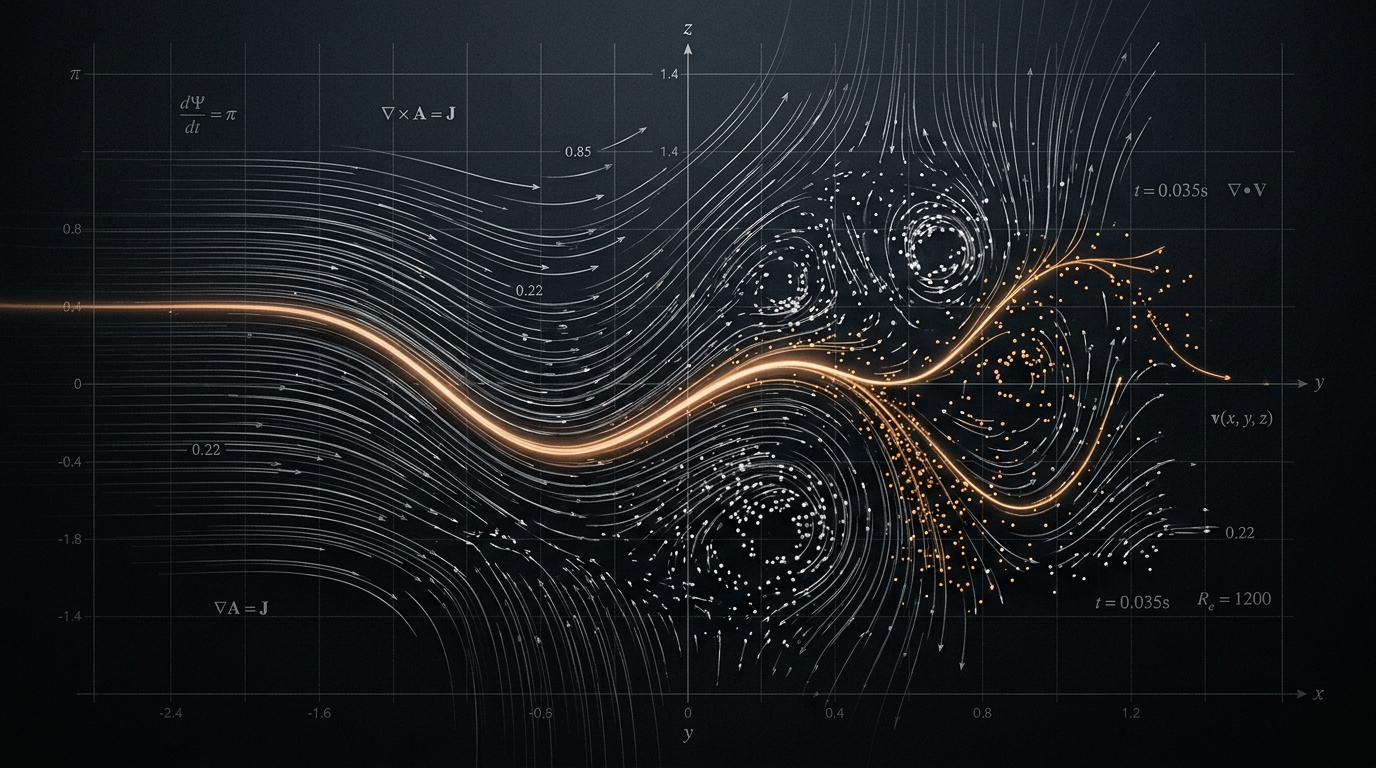
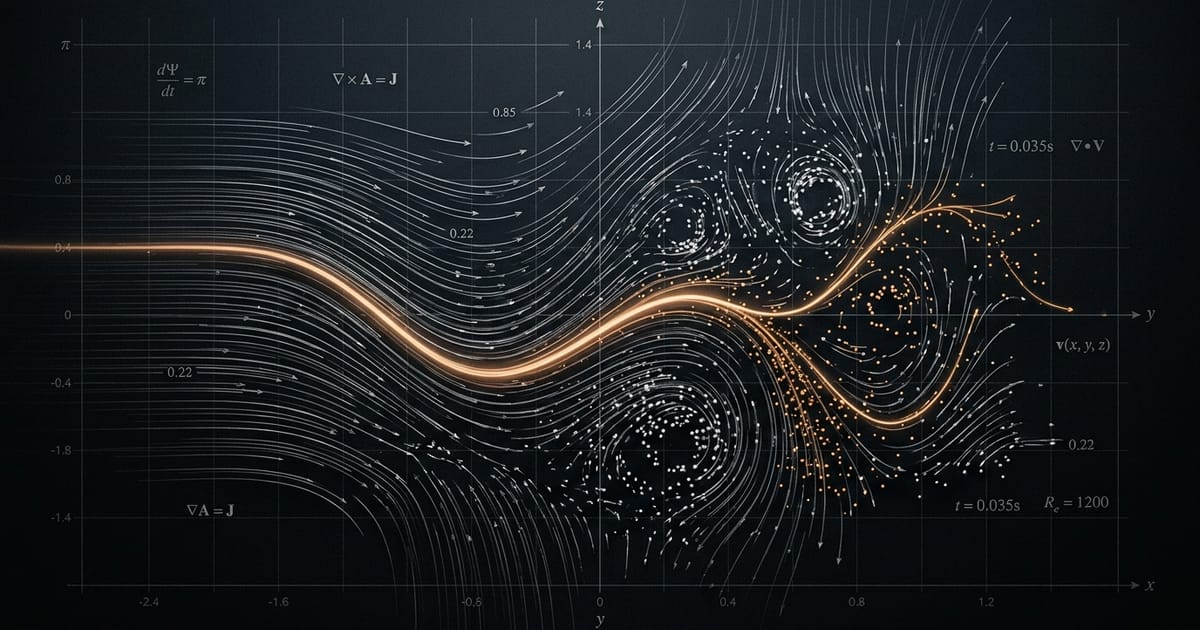
性能与UX优化：Hero图AVIF/WebP压缩、动画降级、SideRays配色统一、主题持久化

diff --git a/src/lib/useAnimationOptOut.ts b/src/lib/useAnimationOptOut.ts
@@ -1,0 +1,40 @@
+import { useEffect, useState } from "react";
+
+/**
+ * Centralized opt-out flags for heavy background animations.
+ *
+ * Two independent signals pause the render loop:
+ *  1. `prefers-reduced-motion` — the user explicitly asked the OS / browser
+ *     to minimize motion (vestibular sensitivity, accessibility). Honored at
+ *     both mount and when the media query changes at runtime.
+ *  2. Page visibility — when the tab is hidden, an rAF loop is pure waste
+ *     (CPU/GPU/battery). `document.visibilityState` flips on tab switch,
+ *     minimization, and screen-sleep on some platforms.
+ *
+ * Components should STOP (not just slow down) their `requestAnimationFrame`
+ * loop while `paused === true`, and ideally render nothing visible either,
+ * since a frozen WebGL frame wastes a texture slot.
+ */
+export function useAnimationOptOut(): { paused: boolean; reducedMotion: boolean } {
+  const [reducedMotion, setReducedMotion] = useState(false);
+  const [hidden, setHidden] = useState(false);
+
+  useEffect(() => {
+    // prefers-reduced-motion: query the live media query so we react to the
+    // user toggling the OS setting without reloading the page.
+    const mql = window.matchMedia("(prefers-reduced-motion: reduce)");
+    const sync = () => setReducedMotion(mql.matches);
+    sync();
+    mql.addEventListener("change", sync);
+
+    // Visibility: pause rAF while the tab is in the background.
+    const onVis = () => setHidden(document.visibilityState === "hidden");
+
+    return () => {
+      mql.removeEventListener("change", sync);
+      document.removeEventListener("visibilitychange", onVis);
+    };
+  }, []);
+
+  return { paused: reducedMotion || hidden, reducedMotion };
+}

diff --git a/src/App.tsx b/src/App.tsx
@@ -26,9 +26,13 @@ import {
 } from "./translations";
 import type { Project, ContentArticle } from "./types";
 
-// Asset references
-import heroImage from "./assets/images/hero_cinematic_rendering_1782300621428.jpg";
-const HERO_IMAGE_URL: string = heroImage.src;
+// Asset references — modern formats only. AVIF (56KB) is ~6% of the original
+// JPEG (875KB); WebP covers browsers without AVIF. Both formats are supported
+// by every browser released since 2020, so no JPEG fallback is shipped.
+import heroAvif from "./assets/images/hero.avif";
+import heroWebp from "./assets/images/hero.webp";
+const HERO_IMAGE_AVIF: string = heroAvif.src;
+const HERO_IMAGE_WEBP: string = heroWebp.src;
 
 interface AppProps {
   // Markdown-backed content (pre-rendered HTML + KaTeX at build time by Astro)
@@ -60,6 +64,19 @@ export default function App({ knowledgeArticles = [], labExperiments = [] }: App
 
   const selectedProject = selectedProjectId ? projects.find(p => p.id === selectedProjectId) || null : null;
 
+  // Persist + restore theme. SSR renders "dark" (no localStorage on server),
+  // then this effect reconciles to the stored value on mount and on every
+  // toggle. Toggling writes back so the choice survives reloads.
+  useEffect(() => {
+    const stored = localStorage.getItem("theme");
+    if (stored === "light" || stored === "dark") {
+      setTheme(stored);
+    }
+  }, []);
+  useEffect(() => {
+    localStorage.setItem("theme", theme);
+  }, [theme]);
+
   // Smooth scroll to top on page switches
   useEffect(() => {
     window.scrollTo({ top: 0, behavior: "smooth" });
@@ -76,7 +93,8 @@ export default function App({ knowledgeArticles = [], labExperiments = [] }: App
             labExperiments={experiments}
             onSelectProject={(proj) => setSelectedProjectId(proj.id)}
             setActiveTab={setActiveTab}
-            heroImageUrl={HERO_IMAGE_URL}
+            heroImageAvif={HERO_IMAGE_AVIF}
+            heroImageWebp={HERO_IMAGE_WEBP}
             lang={lang}
           />
         );
@@ -128,7 +146,7 @@ export default function App({ knowledgeArticles = [], labExperiments = [] }: App
       <div className="fixed inset-0 -z-15 pointer-events-none opacity-90">
         <SideRays
           speed={2.5}
-          rayColor1="#EAB308"
+          rayColor1="#bcfd49"
           rayColor2="#96c8ff"
           intensity={2.0}
           spread={2.0}

diff --git a/src/components/SideRays.tsx b/src/components/SideRays.tsx
@@ -1,5 +1,6 @@
 import React, { useRef, useEffect, useState } from 'react';
 import { Renderer, Program, Triangle, Mesh } from 'ogl';
+import { useAnimationOptOut } from '../lib/useAnimationOptOut';
 import './SideRays.css';
 
 interface SideRaysProps {
@@ -53,6 +54,11 @@ export const SideRays: React.FC<SideRaysProps> = ({
   const cleanupFunctionRef = useRef<(() => void) | null>(null);
   const [isVisible, setIsVisible] = useState(false);
   const observerRef = useRef<IntersectionObserver | null>(null);
+  const { paused } = useAnimationOptOut();
+  // Mirror into a ref so the rAF `loop` closure (captured once per
+  // initializeWebGL) reads the live value without re-initializing WebGL.
+  const pausedRef = useRef(paused);
+  pausedRef.current = paused;
 
   useEffect(() => {
     if (!containerRef.current) return;
@@ -210,13 +216,18 @@ void main() {
 
       const loop = (t: number) => {
         if (!rendererRef.current || !uniformsRef.current || !meshRef.current) return;
-        uniforms.iTime.value = t * 0.001;
-        try {
-          renderer.render({ scene: mesh });
-          animationIdRef.current = requestAnimationFrame(loop);
-        } catch (e) {
-          return;
+        // While paused (tab hidden / reduced-motion), keep the last rendered
+        // WebGL frame on screen and skip the render call — no flicker, no
+        // wasted GPU. The loop keeps scheduling so resume is automatic.
+        if (!pausedRef.current) {
+          uniforms.iTime.value = t * 0.001;
+          try {
+            renderer.render({ scene: mesh });
+          } catch (e) {
+            return;
+          }
         }
+        animationIdRef.current = requestAnimationFrame(loop);
       };
 
       window.addEventListener('resize', updateSize);

diff --git a/src/components/DynamicLinesBg.tsx b/src/components/DynamicLinesBg.tsx
@@ -1,4 +1,5 @@
 import React, { useEffect, useRef } from "react";
+import { useAnimationOptOut } from "../lib/useAnimationOptOut";
 
 interface DynamicLinesBgProps {
   theme: "dark" | "light";
@@ -39,6 +40,11 @@ const EQUATIONS = [
 export default function DynamicLinesBg({ theme }: DynamicLinesBgProps) {
   const canvasRef = useRef<HTMLCanvasElement>(null);
   const mouseRef = useRef({ x: -1000, y: -1000, targetX: -1000, targetY: -1000 });
+  const { paused } = useAnimationOptOut();
+  // Mirror the live opt-out flag into a ref so the rAF closure can read the
+  // current value without re-subscribing (the effect runs once per `theme`).
+  const pausedRef = useRef(paused);
+  pausedRef.current = paused;
 
   useEffect(() => {
     const canvas = canvasRef.current;
@@ -122,6 +128,14 @@ export default function DynamicLinesBg({ theme }: DynamicLinesBgProps) {
 
     // Draw Loop
     const draw = () => {
+      // While paused (tab hidden or reduced-motion), keep the last painted
+      // frame on the canvas and skip all redraw work — no flicker, no wasted
+      // CPU/GPU. The loop keeps scheduling frames so resume is automatic.
+      if (pausedRef.current) {
+        animationFrameId = requestAnimationFrame(draw);
+        return;
+      }
+
       ctx.clearRect(0, 0, width, height);
 
       // Smooth mouse transition
@@ -318,7 +332,7 @@ export default function DynamicLinesBg({ theme }: DynamicLinesBgProps) {
     draw();
 
     return () => {
-      cancelAnimationFrame(animationFrameId);
+      if (animationFrameId) cancelAnimationFrame(animationFrameId);
       window.removeEventListener("resize", handleResize);
       window.removeEventListener("mousemove", handleMouseMove);
       window.removeEventListener("mouseleave", handleMouseLeave);

diff --git a/src/components/HomeView.tsx b/src/components/HomeView.tsx
@@ -15,7 +15,8 @@ interface HomeViewProps {
   labExperiments: ContentArticle[];
   onSelectProject: (project: Project) => void;
   setActiveTab: (tab: string) => void;
-  heroImageUrl: string;
+  heroImageAvif: string;
+  heroImageWebp: string;
   lang: "zh" | "en";
 }
 
@@ -25,7 +26,8 @@ export default function HomeView({
   labExperiments,
   onSelectProject,
   setActiveTab,
-  heroImageUrl,
+  heroImageAvif,
+  heroImageWebp,
   lang,
 }: HomeViewProps) {
   const t = UI_TRANSLATIONS[lang];
@@ -66,7 +68,13 @@ export default function HomeView({
           <div className="absolute w-[600px] h-[400px] bg-white/5 glow-ambient bottom-10" />
           <div className="absolute inset-0 opacity-20 bg-[linear-gradient(rgba(255,255,255,0.02)_1px,transparent_1px),linear-gradient(90deg,rgba(255,255,255,0.02)_1px,transparent_1px)] bg-[size:32px_32px]" />
           <div className="absolute right-0 top-1/4 w-full max-w-[650px] aspect-video opacity-10 blur-xl pointer-events-none">
-            <img src={heroImageUrl} alt="" referrerPolicy="no-referrer" className="w-full h-full object-cover rounded-full" />
+            <picture>
+              <source srcSet={heroImageAvif} type="image/avif" />
+              <source srcSet={heroImageWebp} type="image/webp" />
+              {/* Fallback src uses WebP (92KB), not the 875KB JPEG — AVIF+WebP
+                  cover all modern browsers, so a JPEG fallback isn't shipped. */}
+              <img src={heroImageWebp} alt="" referrerPolicy="no-referrer" className="w-full h-full object-cover rounded-full" />
+            </picture>
           </div>
         </div>
 